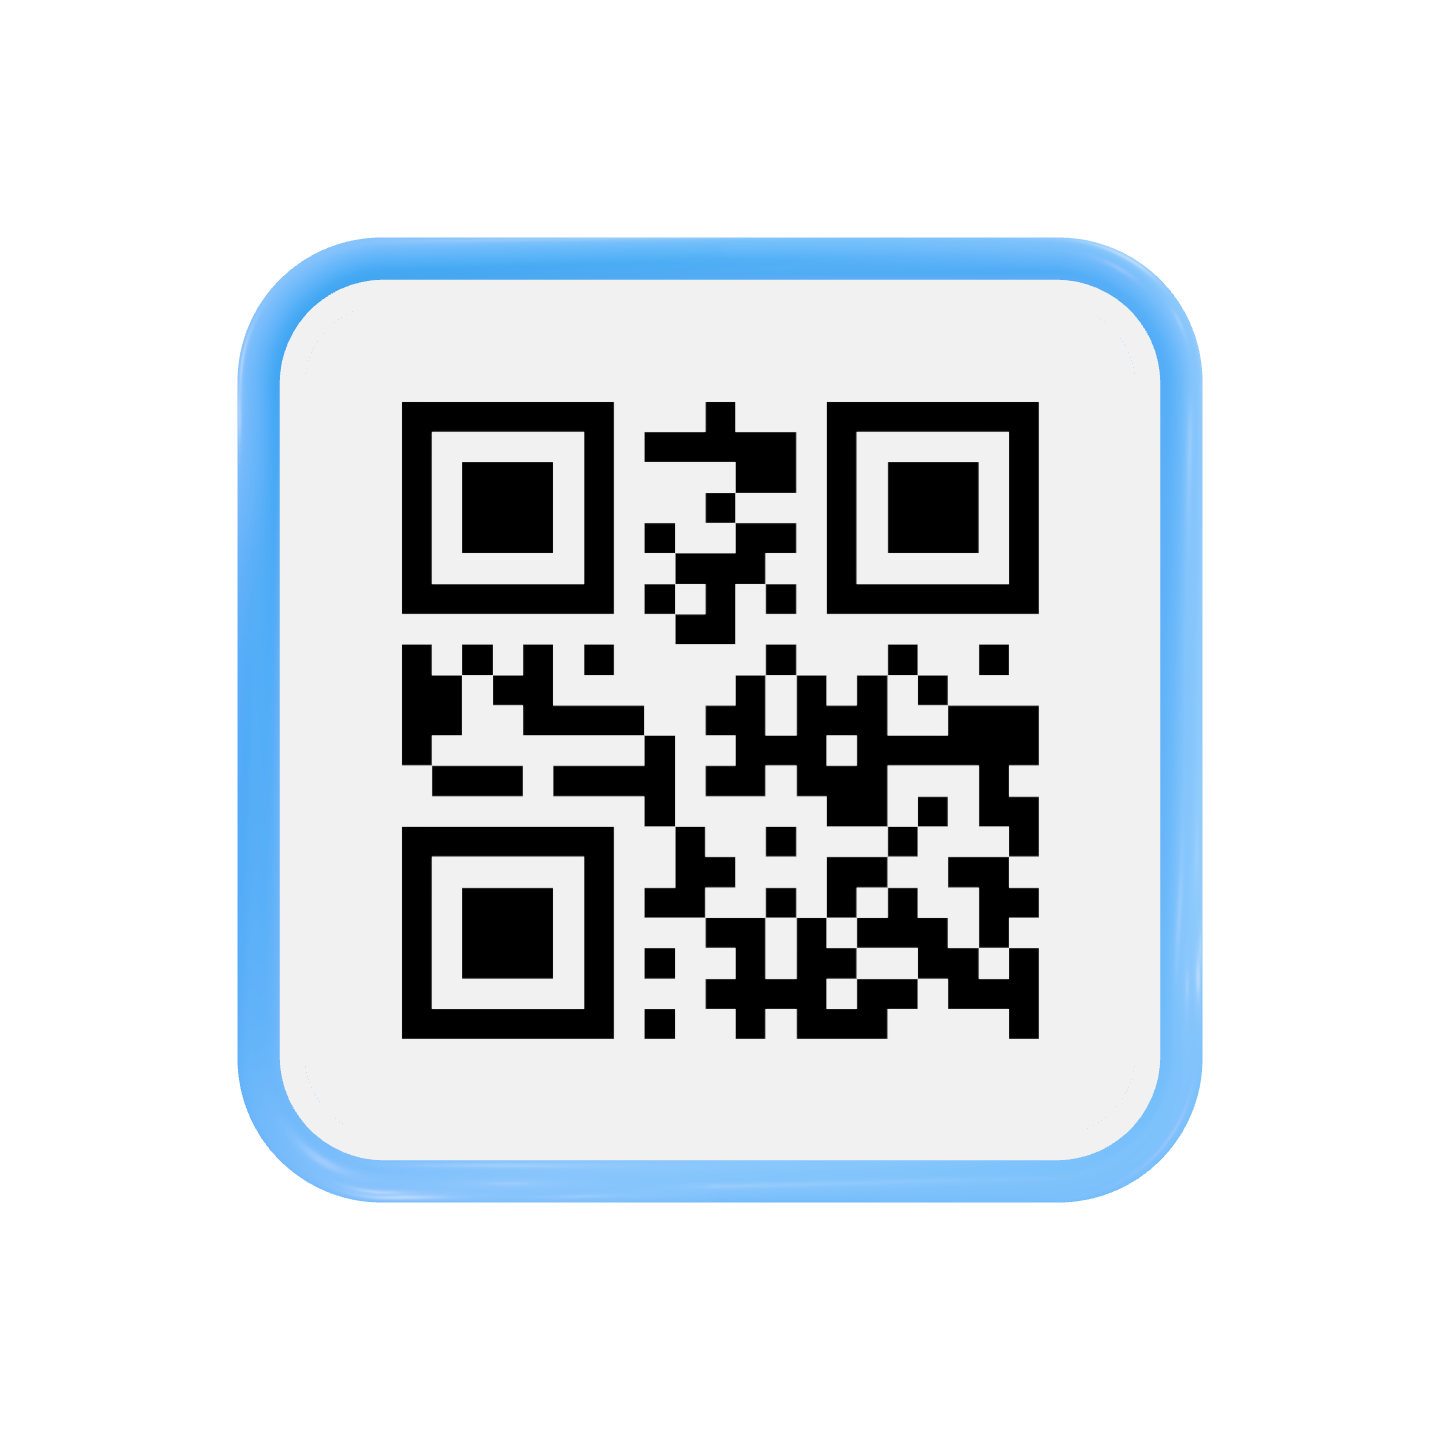
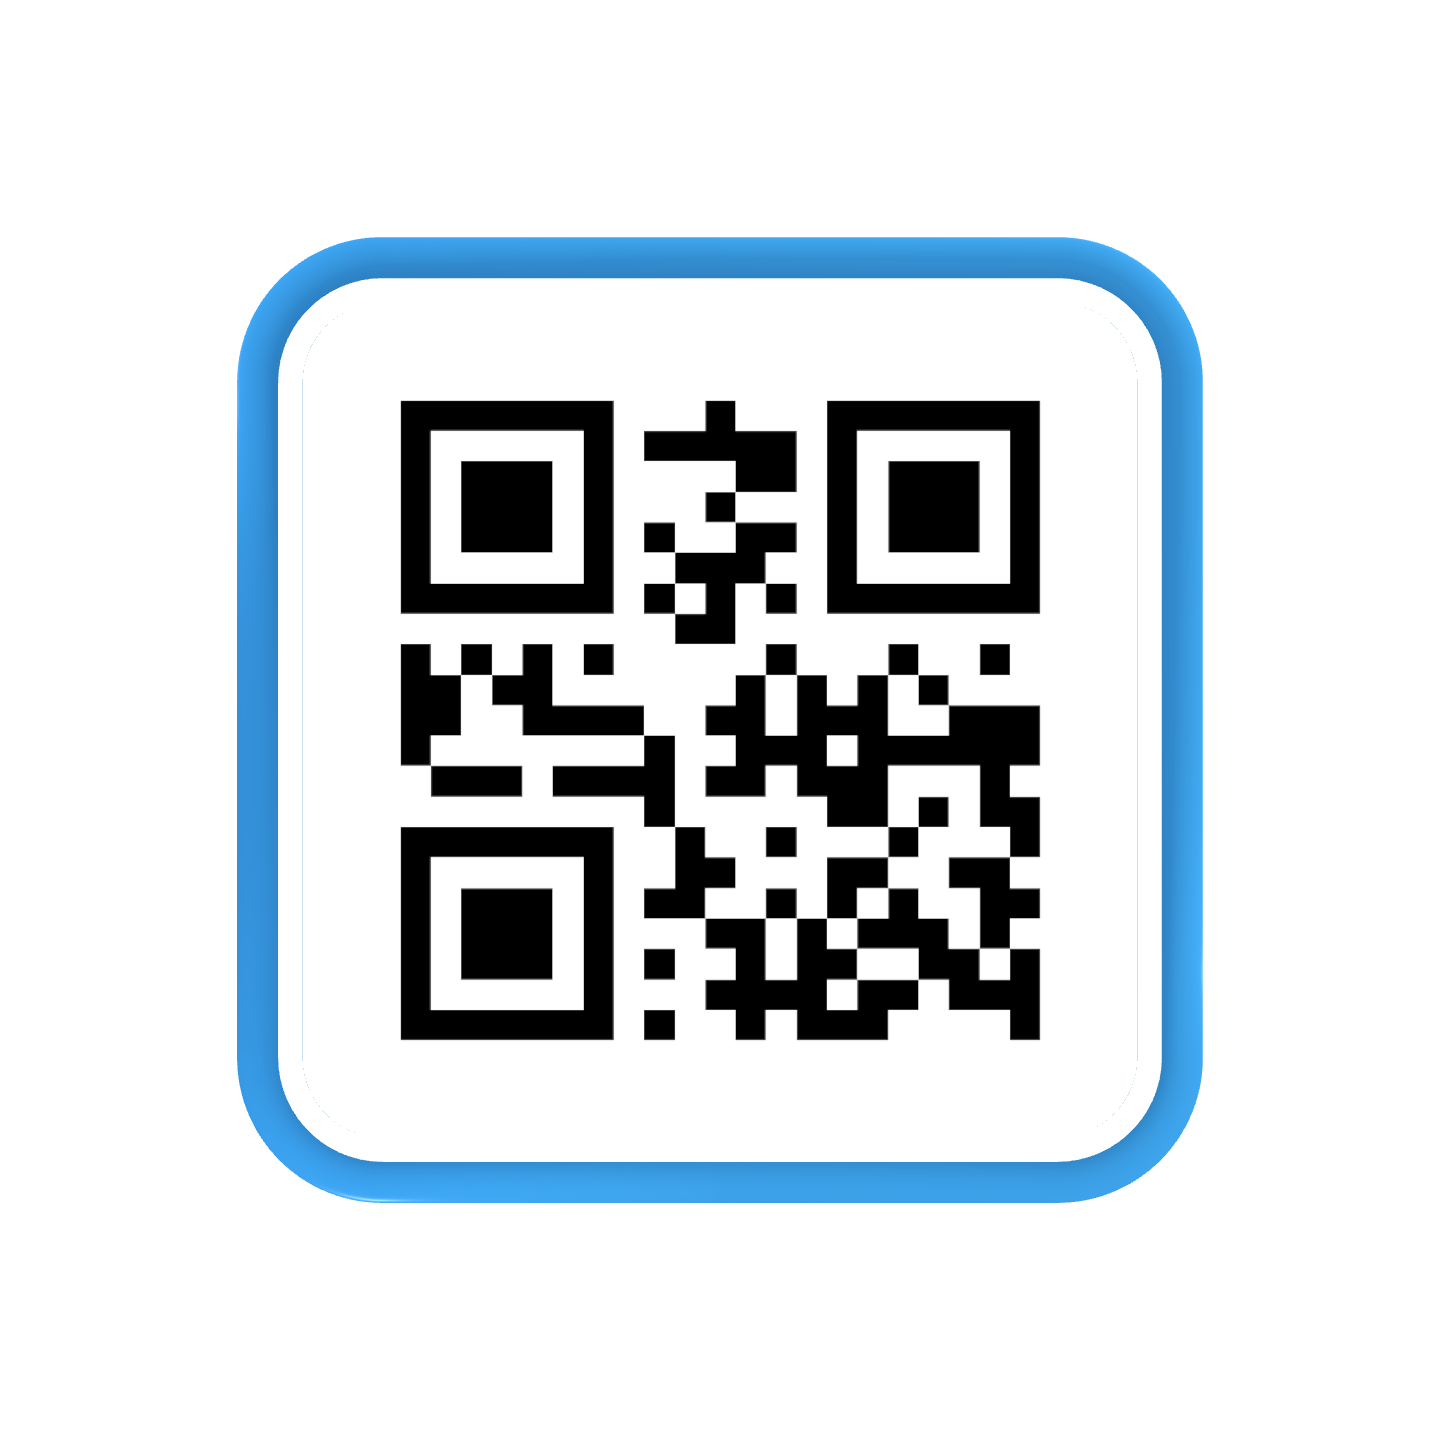
fix(site): render the hero mark with the colors of the GLB
The mark holds its blue in vertex colors (#3BA8F0 to #4BBDFD) and an
emissive #246DAB. Neutral tone mapping and a room environment map turned
it pale, and a field of view of 45 degrees swelled the near loop. The hero
now uses no tone mapping, no environment map, a field of view of 18
degrees, and a camera that starts on the mark and moves back to the card.
The poster comes from the new render.

diff --git a/apps/site/src/hero/animation.ts b/apps/site/src/hero/animation.ts
@@ -1,32 +1,40 @@
 /*
  * The Three.js scene of the hero. HeroStage imports this module on demand, so Three.js and the GLB load after the first paint.
- * The camera, the lights, and the tone mapping start from assets/animation/example.html. The site adds a studio
- * environment for reflections, a closer camera, and a faster clip.
+ * The GLB and its player are the files of assets/animation. The site frames the mark closer than example.html, with a
+ * narrow field of view, renders its authored colors with no tone mapping, and plays the clip a little faster.
  */
-import {
-  AmbientLight,
-  DirectionalLight,
-  NeutralToneMapping,
-  PerspectiveCamera,
-  PMREMGenerator,
-  Scene,
-  SRGBColorSpace,
-  WebGLRenderer,
-} from 'three';
-import { RoomEnvironment } from 'three/addons/environments/RoomEnvironment.js';
+import { AmbientLight, DirectionalLight, NoToneMapping, PerspectiveCamera, Scene, SRGBColorSpace, WebGLRenderer } from 'three';
 import { loadMetaGlanceAnimation } from '../../../../assets/animation/metaGlancePlayer.js';
 import glbUrl from '../../../../assets/animation/meta-glances-placeholder.glb?url';
 
 /*
- * example.html puts the camera 13 units away, for a full window. The card at the end of the clip then fills a fifth of
- * the height. The hero frame is smaller, so the camera moves closer until the card fills most of the frame.
+ * example.html puts the camera 13 units away with a field of view of 45 degrees, for a full window. The hero frame is
+ * smaller, so it shows a band of 3.8 units: the card at the end fills most of the frame. A narrow field of view seen from
+ * farther away keeps the two loops of the mark even, as in the flat logo, where a wide one swells the near loop.
  */
-const CAMERA_DISTANCE = 4.6;
+const FIELD_OF_VIEW = 18;
+/*
+ * The band of the scene that the frame shows, in units. The mark is smaller than the card that it turns into, so the
+ * camera starts closer, on the mark, and moves back to the card while the mark turns into the frame of the card.
+ */
+const MARK_HEIGHT = 2.4;
+const CARD_HEIGHT = 3.8;
+const MOVE_START = 2.2;
+const MOVE_END = 3.4;
+
+function visibleHeight(clipTime: number): number {
+  const t = Math.min(Math.max((clipTime - MOVE_START) / (MOVE_END - MOVE_START), 0), 1);
+  const eased = t * t * (3 - 2 * t);
+  return MARK_HEIGHT + (CARD_HEIGHT - MARK_HEIGHT) * eased;
+}
 /*
  * The clip lasts 6 seconds. At 1.25 times its speed it lasts 4.8 seconds, under the 5 seconds after which WCAG 2.2.2
  * asks for a pause control. It then rests on its last frame.
  */
 const SPEED = 1.25;
+// Light that shows the vertex colors close to their authored values, with soft shading on the tube.
+const AMBIENT = 0.9;
+const KEY = 1.1;
 
 export type HeroAnimation = {
   /** Length of the clip in seconds, at its own speed. */
@@ -47,39 +55,37 @@ export type HeroAnimationOptions = {
 export async function startHeroAnimation({ canvas, qrSource, onEnd }: HeroAnimationOptions): Promise<HeroAnimation> {
   const renderer = new WebGLRenderer({ canvas, antialias: true, alpha: true, preserveDrawingBuffer: true, powerPreference: 'high-performance' });
   renderer.setPixelRatio(Math.min(window.devicePixelRatio, 2));
-  // Neutral tone mapping keeps the blue of the mark and the white of the card. ACES of example.html greys them.
-  renderer.toneMapping = NeutralToneMapping;
-  renderer.toneMappingExposure = 1.05;
+  /*
+   * No tone mapping and no environment map: the blue of the mark is in its vertex colors (#3BA8F0 to #4BBDFD in sRGB)
+   * and its emissive color, and tone mapping or reflections of a room turn it pale. The output is sRGB.
+   */
+  renderer.toneMapping = NoToneMapping;
   renderer.outputColorSpace = SRGBColorSpace;
   renderer.setClearColor(0x000000, 0);
 
   const scene = new Scene();
-  const pmrem = new PMREMGenerator(renderer);
-  const environment = pmrem.fromScene(new RoomEnvironment(), 0.04).texture;
-  scene.environment = environment;
-  pmrem.dispose();
+  const camera = new PerspectiveCamera(FIELD_OF_VIEW, 1, 0.1, 200);
 
-  const camera = new PerspectiveCamera(45, 1, 0.1, 100);
-  camera.position.set(0, 0, CAMERA_DISTANCE);
-
-  scene.add(new AmbientLight(0xffffff, 0.45));
-  const keyLight = new DirectionalLight(0xffffff, 1.6);
-  keyLight.position.set(4, 6, 8);
+  scene.add(new AmbientLight(0xffffff, AMBIENT));
+  const keyLight = new DirectionalLight(0xffffff, KEY);
+  keyLight.position.set(2, 4, 10);
   scene.add(keyLight);
-  const rimLight = new DirectionalLight(0x9cc3ff, 0.9);
-  rimLight.position.set(-6, -3, 4);
-  scene.add(rimLight);
 
   const player = await loadMetaGlanceAnimation({ variant: 'placeholder', glbUrl, qrSource, loop: false });
   scene.add(player.root);
+
+  const placeCamera = () => {
+    const distance = visibleHeight(player.action.time) / 2 / Math.tan(((FIELD_OF_VIEW / 2) * Math.PI) / 180);
+    // A narrow stage keeps the whole mark in view: the camera moves back when the stage is taller than it is wide.
+    camera.position.set(0, 0, camera.aspect < 1 ? distance / camera.aspect : distance);
+  };
 
   const resize = () => {
     const { clientWidth, clientHeight } = canvas;
     if (clientWidth === 0 || clientHeight === 0) return;
     renderer.setSize(clientWidth, clientHeight, false);
     camera.aspect = clientWidth / clientHeight;
-    // A narrow stage keeps the whole mark in view: the camera moves back when the stage is taller than it is wide.
-    camera.position.z = camera.aspect < 1 ? CAMERA_DISTANCE / camera.aspect : CAMERA_DISTANCE;
+    placeCamera();
     camera.updateProjectionMatrix();
     // A new size clears the canvas. After the end no loop draws again, so this draws the frame once.
     renderer.render(scene, camera);
@@ -98,6 +104,7 @@ export async function startHeroAnimation({ canvas, qrSource, onEnd }: HeroAnimat
     const delta = last === null ? 0 : Math.min((now - last) / 1000, 0.1);
     last = now;
     player.update(delta * SPEED);
+    placeCamera();
     renderer.render(scene, camera);
     if (player.action.time >= player.duration) {
       isPlaying = false;
@@ -128,13 +135,13 @@ export async function startHeroAnimation({ canvas, qrSource, onEnd }: HeroAnimat
       isPlaying = false;
       stopLoop();
       player.seek(seconds);
+      placeCamera();
       renderer.render(scene, camera);
     },
     dispose() {
       stopLoop();
       visibility.disconnect();
       resizeObserver.disconnect();
-      environment.dispose();
       player.dispose();
       renderer.dispose();
     },
